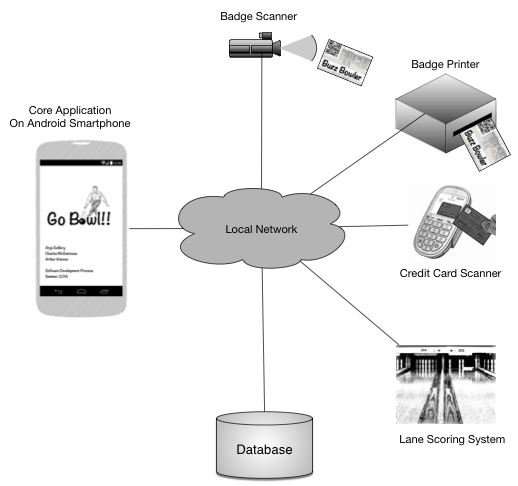
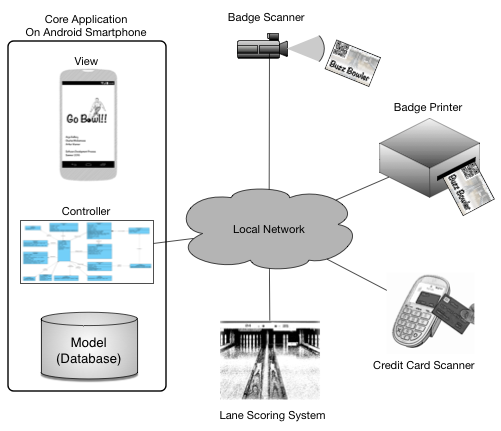
Design Document and related - Move database into device

diff --git a/Deliverable2/DesignDocument.md b/Deliverable2/DesignDocument.md
@@ -14,7 +14,7 @@ The bowling alley application is designed to use Android smartphones (or tablets
 
 * We assume the UI will be run on a modern Android OS
 * We assume the UI will be primarily used on a smartphone form factor
-* We assume that a backing store will be selected later and incorporate in subsequent rounds of development after the core application design is approved.
+* We assume that a proper backing store will be selected later and incorporate in subsequent rounds of development after the core application design is approved.  For the short term, the database capabilities on the android device will be used.
 * We assume the hardware libraries will be provided to us at a later point
 * We assume that there is a local network connecting the smartphone and other components in the bowling alley.
 
@@ -26,7 +26,6 @@ The bowling alley application is designed to use Android smartphones (or tablets
 ### 1.3 System Environment
 
 * The system will run on an Android phone or tablet, but will be optimized for phone form factors.
-* Backend is TBD, but for the moment is assumed to be some sort of database that can be access via an API.
 * All devices that the application talks to are IP-enabled.
 
 ## 2 Architectural Design
@@ -41,18 +40,18 @@ As the functionality at this point is quite simple, the design revolves around a
 
 ### 2.1 Component Diagram
 
-![Components](images/component.png)
+![Components](images/components.png)
 
 The components of the application are:
 
-* The user interface
-* The manager functions
-* The customer functions
-* An interface to the badge printer
-* An interface to a persistant store
-* An interface to the credit card scanner and processor
-* An interface to the camera that reads badges
-* An interface to the scoring system in the lanes
+* The user interface (View)
+* The manager functions (Controller)
+* The customer functions (Controller)
+* The persistant store (Model)
+* An interface to the badge printer (Utility)
+* An interface to the credit card scanner and processor  Utility)
+* An interface to the camera that reads badges (Utility)
+* An interface to the scoring system in the lanes (Utility)
 
 ### 2.2 Deployment Diagram
 
